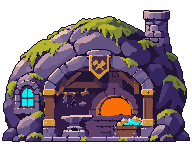
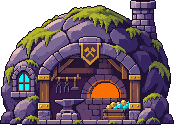
碎星鎮美術換成照原圖自己的像素格讀回的版本（Unity）：建築用 agent-sprite-forge 的 pixel_look、場景層用 pixel_reduce（每 3 格一格），細節與輪廓貼近原圖；場景層寬度改成原圖的寬（遠景 723、中景與前景 724），工坊、旅館中心位置不變，前景只露出上面 46 格不擋角色

diff --git a/game/src/town.js b/game/src/town.js
@@ -51,7 +51,7 @@ const GRASS = P(["#16281e", "#20382a", "#2e4e36", "#3e6844", "#548652"]);
 const WARM = C("#ffc864"), WARM_HI = C("#fff0b0"), FRAME = C("#2a1e2a"), MULLION = C("#a06030");
 
 // ---- 緩衝區
-const FAR_W = 640, MID_W = 840, FG_W = 256, SKY_W = 480;
+const FAR_W = 723, MID_W = 724, FG_W = 724, SKY_W = 480;   // 2026-11-17：場景層照原圖自己的像素格讀回（pixel_reduce 每 3 格一格），寬度跟著原圖
 const FAR = new Uint32Array(FAR_W * H), MID = new Uint32Array(MID_W * H), MAIN = new Uint32Array(TOWN_W * H), FG = new Uint32Array(FG_W * H);
 const EMIT = new Uint8Array(TOWN_W * H);   // 自己會發光的像素（窗戶、碎片、火），光影不改它
 
@@ -97,7 +97,7 @@ function shard(p, x, y, h, w, ramp, emit = true) {
 }
 
 // 店的位置（左上角 x）：門口對準居民站的地方
-const SHOPS = [["town/guild", 70], ["town/workshop", 450], ["town/inn", 800]];
+const SHOPS = [["town/guild", 70], ["town/workshop", 459], ["town/inn", 804]];   // 2026-11-17：工坊、旅館照原圖格子讀回後窄了一點，左上角往右移一半，中心不變
 // 裝飾（props/town-deco 的格子：0 木桶 1 疊木箱 2 柵欄 3 路標 4 星星路燈 5 盆栽蘑菇 6 麻袋 7 長椅）的中心 x
 const DECO = [[0, 668], [6, 1000], [7, 1070], [2, 1206]];   // 2026-11-12：裝飾減半
 const BLOOMS = [[0, 30], [3, 362], [7, 760], [4, 1040]];        // 花、蘑菇（props/flowers 的格子）
@@ -141,7 +141,9 @@ function build() {
   for (const [k, cx] of TUFTS) { const d = cell(ART["props/grass"], k, 24, 24); blit(MAIN, TOWN_W, H, d, cx - 12, FLOOR + 1 - baseRow(d)); }
 
   // ================= 前景：比主角近的草叢與蘑菇（左右循環） =================
-  blit(FG, FG_W, H, ART["town/fg"], 0, H - ART["town/fg"].h);
+  // 2026-11-17：新前景（照原圖格子讀回）有 84 格高，整張貼會擋住角色；往下沉，只露出上面 FG_SHOW 格，蕨葉從畫面底部往上冒
+  const FG_SHOW = 46;
+  blit(FG, FG_W, H, ART["town/fg"], 0, H - Math.min(FG_SHOW, ART["town/fg"].h));
 }
 build();
 /** Unity 轉移用（game/tools/unity/unity-export.mjs）：載入時畫好的圖層、會發光的像素、光源。網頁版不會用到。 */
